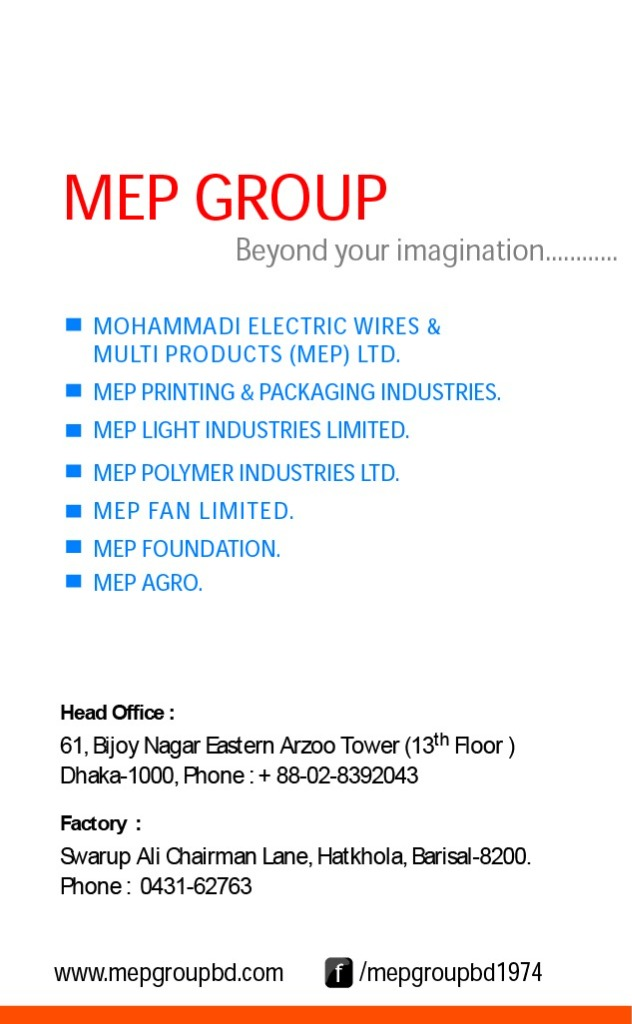
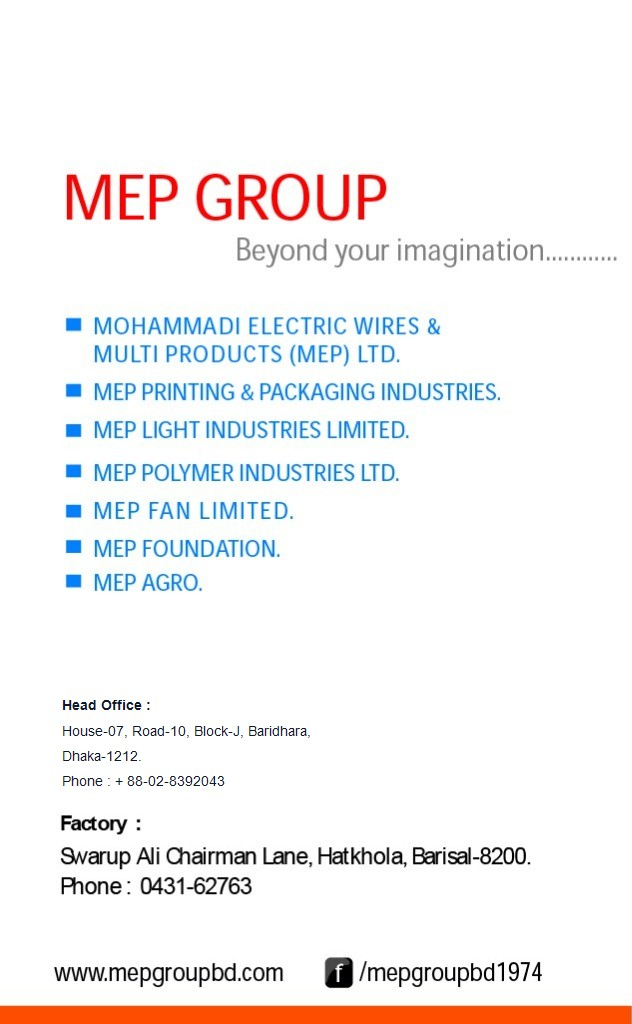
Update Head Office address to Baridhara on Visitor ID Card back side

Changed region(s): [[0.0902, 0.6875, 0.8117, 0.7812]]

diff --git a/src/components/id-cards/VisitorIdCardSection.tsx b/src/components/id-cards/VisitorIdCardSection.tsx
@@ -22,7 +22,7 @@ export default function VisitorIdCardSection() {
 
     const bImg = new Image();
     bImg.crossOrigin = 'anonymous';
-    bImg.src = '/visitor-card/visitor_back.jpg';
+    bImg.src = '/visitor-card/visitor_back.jpg?v=2';
     bImg.onload = () => {
       backImgRef.current = bImg;
       drawBack();
